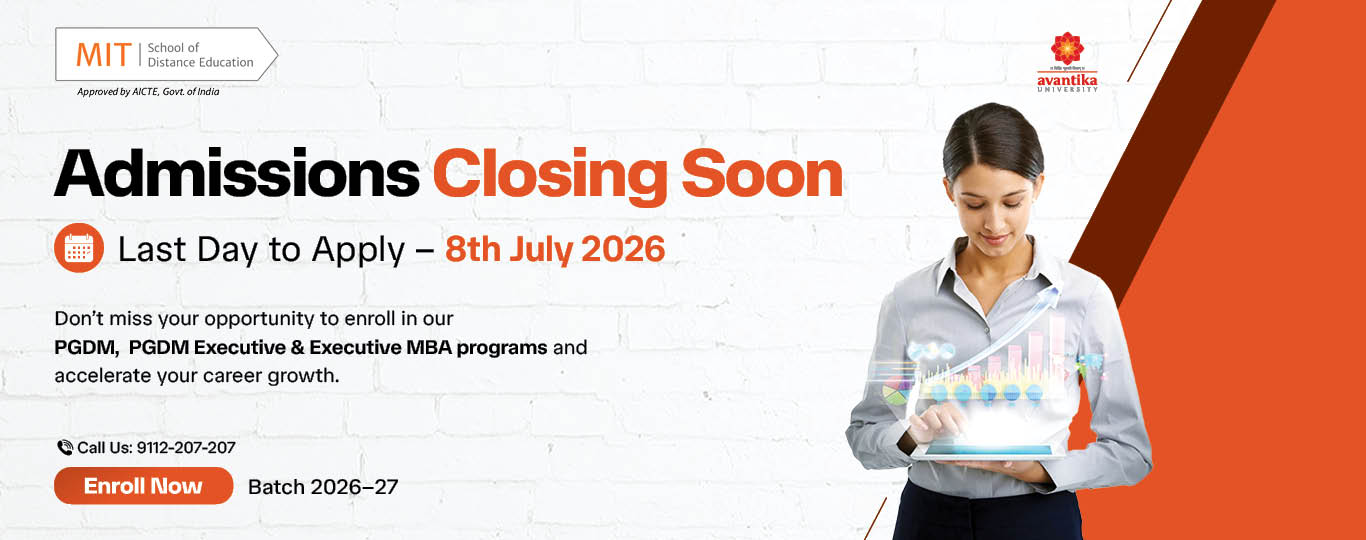
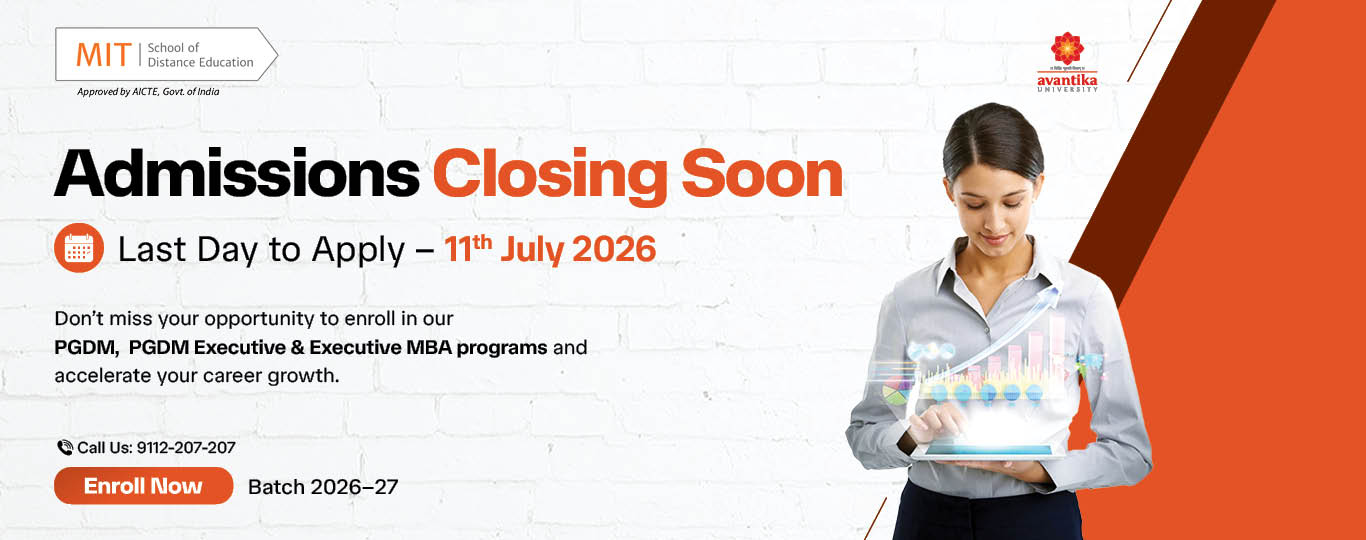
change in last date

Changed region(s): [[0.3075, 0.4148, 0.4919, 0.5037]]

diff --git a/announcementUpdate.php b/announcementUpdate.php
@@ -2,7 +2,7 @@
     <div class="container">
         <div class="row">
             <div class="ann-box">
-                <p style="font-size: 15.5px;">Last Day Left! Apply before <span class="blinklastdate"> 8th July 2026
+                <p style="font-size: 15.5px;">Last Day Left! Apply before <span class="blinklastdate"> 11th July 2026
                     </span> to enroll in the final batch. Call now:<a href="tel:9112207207"
                         style="text-decoration: none; padding: 0px !important;"> 9112-207-207</a> <a href="roi" style="color: white; font-weight: 400;">Calculate Your Career ROI in 30 Seconds →</a>
                     </p>
